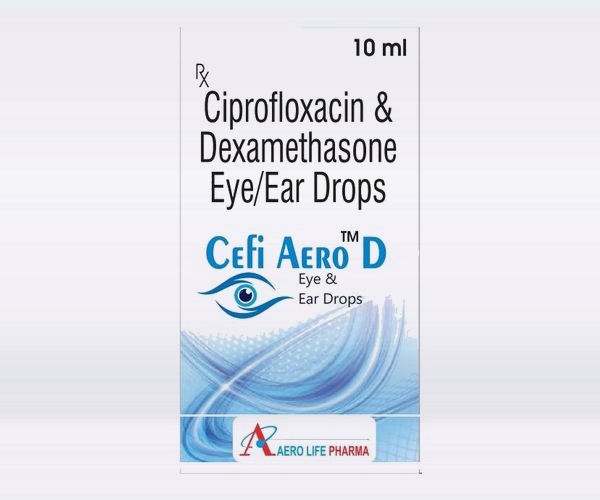
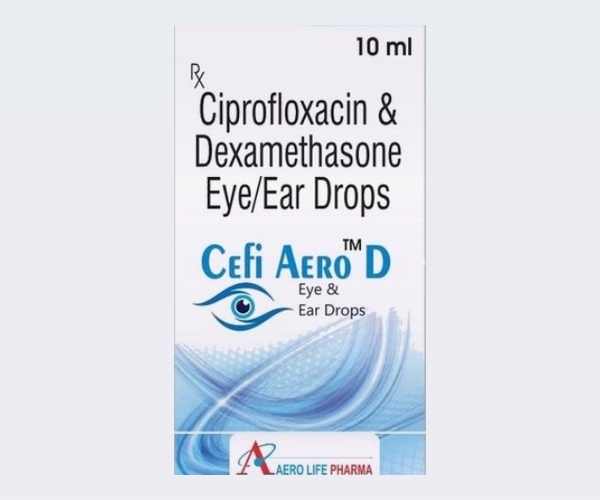
fix: replace Cefi Aero D with clean packaging image and remove pending overlay

Changed region(s): [[0.27, 0.06, 0.72, 0.96]]

diff --git a/src/pages/ProductDetailPage.jsx b/src/pages/ProductDetailPage.jsx
@@ -143,14 +143,6 @@ export default function ProductDetailPage() {
                   <span>Verified Product</span>
                 </div>
 
-                {product.imagePending && (
-                  <div className="absolute inset-0 bg-slate-900/65 backdrop-blur-xs flex flex-col items-center justify-center p-6 text-center z-30">
-                    <Package className="w-10 h-10 text-amber-300 mb-2" />
-                    <span className="text-sm font-bold text-white leading-tight">Packaging Photograph</span>
-                    <span className="text-xs text-amber-200 font-semibold mt-1">Physical Sample Verification In Progress</span>
-                  </div>
-                )}
-
                 {/* Catalog Monograph Stamp */}
                 <div className="absolute top-3 right-3 bg-slate-100 border border-slate-200 text-slate-700 px-2.5 py-1 rounded-lg text-[10px] font-bold flex items-center gap-1">
                   <ShieldCheck className="w-3.5 h-3.5 text-[#00AEEF]" />

diff --git a/src/pages/ProductsPage.jsx b/src/pages/ProductsPage.jsx
@@ -458,15 +458,6 @@ export default function ProductsPage() {
                             Page {prod.page}
                           </span>
                         )}
-
-                        {/* Pending Verification Notice */}
-                        {prod.imagePending && (
-                          <div className="absolute inset-0 bg-slate-900/65 backdrop-blur-xs flex flex-col items-center justify-center p-4 text-center z-30">
-                            <Package className="w-8 h-8 text-amber-300 mb-1" />
-                            <span className="text-xs font-bold text-white leading-tight">Packaging Photograph</span>
-                            <span className="text-[10px] text-amber-200 font-semibold mt-0.5">Physical Sample Verification In Progress</span>
-                          </div>
-                        )}
                       </div>
 
                       {/* Product Content Body matching reference card style */}

diff --git a/src/pages/ProductCategoryPage.jsx b/src/pages/ProductCategoryPage.jsx
@@ -328,14 +328,6 @@ export default function ProductCategoryPage() {
                       Page {product.page}
                     </span>
                   )}
-
-                  {product.imagePending && (
-                    <div className="absolute inset-0 bg-slate-900/65 backdrop-blur-xs flex flex-col items-center justify-center p-4 text-center z-30">
-                      <Package className="w-8 h-8 text-amber-300 mb-1" />
-                      <span className="text-xs font-bold text-white leading-tight">Packaging Photograph</span>
-                      <span className="text-[10px] text-amber-200 font-semibold mt-0.5">Physical Sample Verification In Progress</span>
-                    </div>
-                  )}
                 </div>
 
                 {/* Product Information Body */}

diff --git a/src/data/productsData.js b/src/data/productsData.js
@@ -1397,7 +1397,7 @@ export const CATEGORIES = [
         "pack": "10 ml",
         "page": 40,
         "image": "/assets/products/cefi-aero-d-eye-ear-drops.jpg",
-        "imagePending": true,
+        "imagePending": false,
         "isFlagship": false,
         "description": "Cefi Aero D Eye & Ear Drops features Ciprofloxacin & Dexamethasone Eye/Ear Drops. Available in standard commercial packaging as listed in the official catalog.",
         "therapeuticCategory": "Ophthalmic & Otic Broad-Spectrum Antibiotic / Steroid Suspension"
